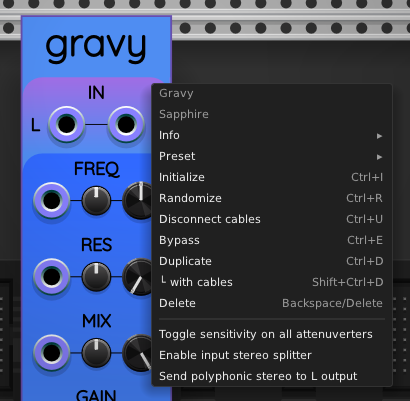
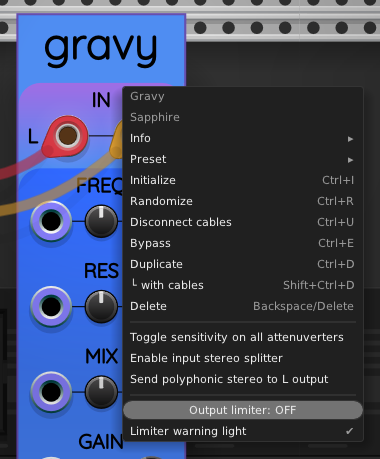
Gravy: document/screenshot mentions output limiter.

diff --git a/Gravy.md b/Gravy.md
@@ -82,3 +82,24 @@ Enabling polyphonic stereo output causes the output port labels to change from "
 to a "2" displayed on the left output port only.
 
 ![Stereo output label](images/poly_stereo_out.png)
+
+## Output limiter
+
+Sometimes the output voltage from Gravy can be excessively large, especially
+if you use high resonance settings. It can be helpful to keep the output under
+control. To meet this need, Gravy includes a built-in output limiter option.
+
+In the context menu, the output limiter appears as a horizontal slider.
+By default, the limiter is turned OFF. If you start to pull this horizontal
+slider to the left using your mouse, the limiter turns on. You can adjust the
+output limiter to any value from 5&nbsp;V to 50&nbsp;V. You can turn the limiter
+back off by sliding the level all the way to the right.
+
+When the output limiter is enabled, and the output goes beyond the limit,
+the limiter causes the GAIN knob to glow red as an indicator that the output
+level is being attenuated.
+
+Also in the context menu is the toggle option "Limiter warning light".
+By default, the warning light is enabled, causing the GAIN knob to glow red
+when the limiter is actively reducing the output level. You can uncheck this
+option to turn the red glow off.
